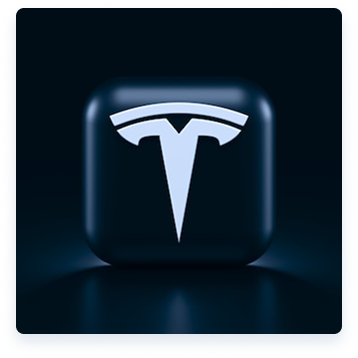
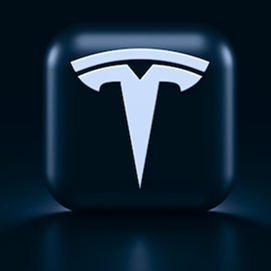
u

diff --git a/style.css b/style.css
@@ -104,7 +104,7 @@ body {
     flex-direction: column;
     gap: 32px;
     width: 657px;
-    height: 276px;
+    height: 291px;
 }
 
 .b-1__box-1--ch-title {
@@ -185,7 +185,7 @@ span {
     display: flex;
     justify-content: space-between;
     align-items: center;
-    width: 85%;
+    width: 76%;
     height: 98px;
 }
 
@@ -224,11 +224,10 @@ span {
 
 .b-1__box-3--frame {
     display: flex;
-    justify-content: center;
+    justify-content: space-between;
     align-items: center;
-    gap: 105px;
     height: 280px;
-    width: 100%;
+    width: 76%;
 }
 
 .b-1__box-3--frame-box {
@@ -299,13 +298,14 @@ span {
     display: flex;
     justify-content: center;
     align-items: center;
-    gap: 64px;
+    gap: 44px;
 }
 
 .b-2__box-1--content {  
     display: flex;
     flex-direction: column;
     gap: 32px;
+    width: 661px;
 }
 
 .b-2__box-1--content-ch {
@@ -327,6 +327,7 @@ span {
     font-weight: 400;
     font-size: 14px;
     line-height: 20px;
+    width: 601px;
 }  
 
 .b-2__box-1--content-button {
@@ -347,7 +348,7 @@ span {
 .b-2__box-2 {
     height: 288px;
     display: flex;
-    justify-content: space-around;
+    justify-content: space-evenly;
     align-items: center;
     background-color: rgba(245, 247, 250, 1);
 }
@@ -366,7 +367,7 @@ span {
     width: 408px;
 }
 
-.b-2__box-1--content-text {
+.b-2__box-2--content-text {
     color: rgba(24, 25, 31, 1);
     font-weight: 400;
     font-size: 16px;
@@ -425,6 +426,7 @@ span {
     display: flex;
     justify-content: center;
     align-items: center;
+    gap: 32px;
 }
 
 .b-2__box-3--content {
@@ -483,6 +485,8 @@ span {
 
 .b-2__box-4--img {
     border-radius: 8px;
+    width: 310px;
+    height: 310px;
 }
 
 .b-2__box-4--content {
